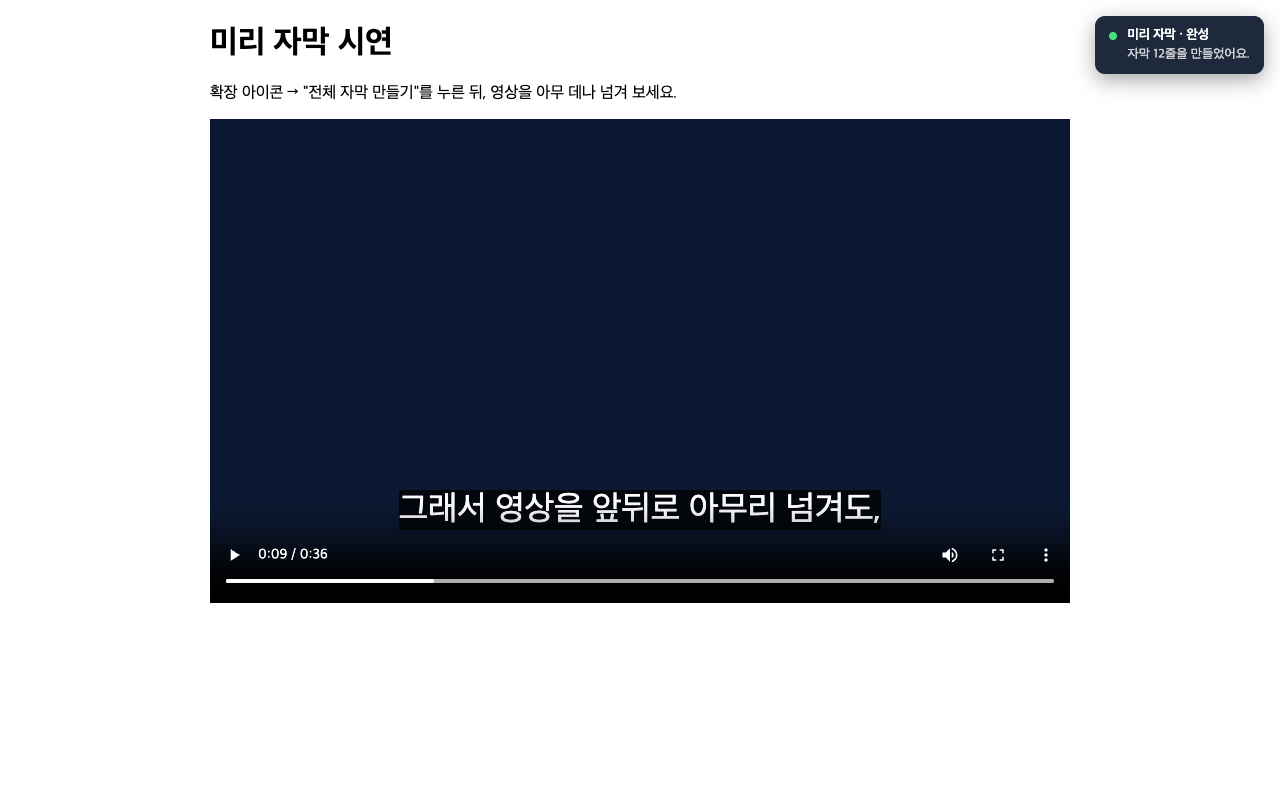
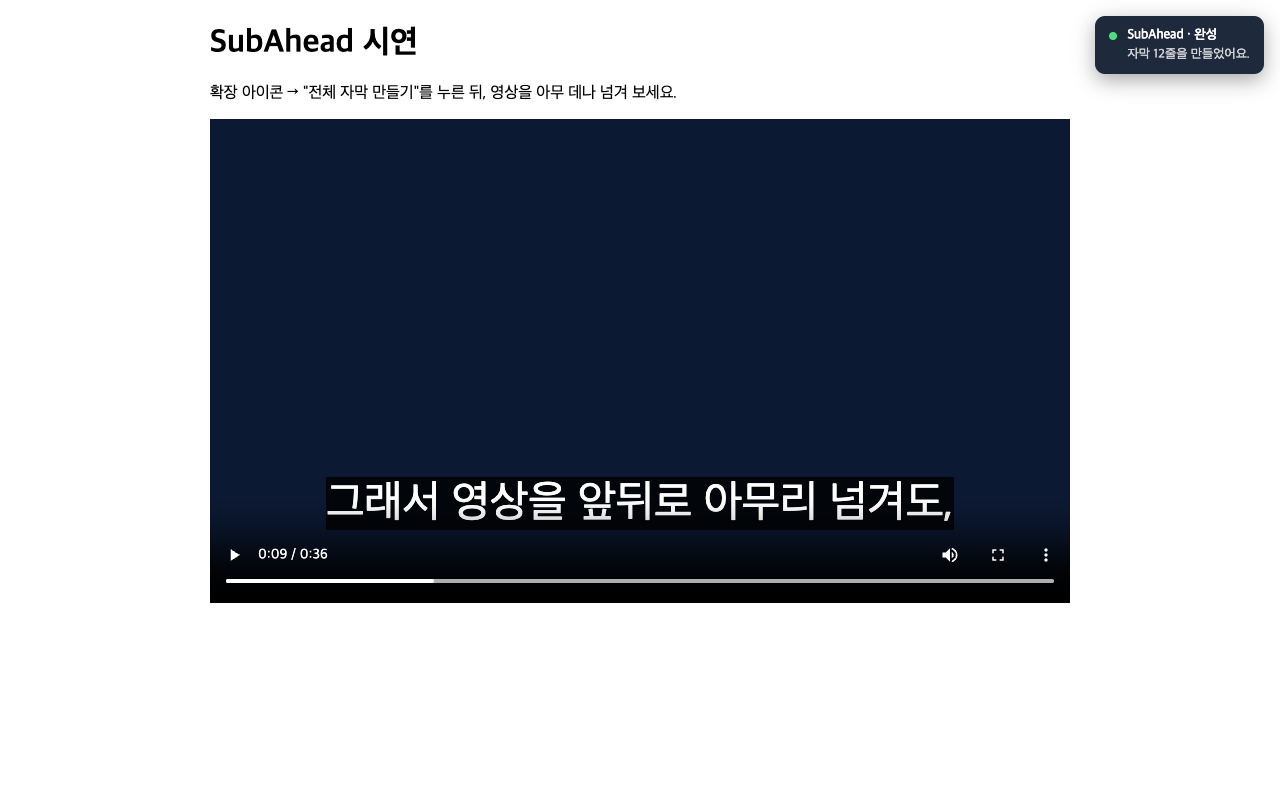
스토어 스크린샷을 새 다크 팝업·SubAhead 이름으로 교체
설정 탭 화면의 게이트웨이 주소는 예시(api.example.com)로 찍음. 시연 페이지 제목도 SubAhead 로.

Changed region(s): [[0.25, 0.5938, 0.75, 0.6875], [0.1562, 0.0312, 0.3438, 0.0938], [0.875, 0.0312, 0.9688, 0.0625]]

diff --git a/demo/index.html b/demo/index.html
@@ -1,7 +1,7 @@
 <!doctype html>
 <meta charset="utf-8">
-<title>미리 자막 시연</title>
+<title>SubAhead 시연</title>
 <style>body{font-family:-apple-system,sans-serif;max-width:860px;margin:24px auto;padding:0 16px}video{width:100%;background:#111;aspect-ratio:16/9}</style>
-<h1>미리 자막 시연</h1>
+<h1>SubAhead 시연</h1>
 <p>확장 아이콘 → "전체 자막 만들기"를 누른 뒤, 영상을 아무 데나 넘겨 보세요.</p>
 <video controls src="demo.mp4"></video>
